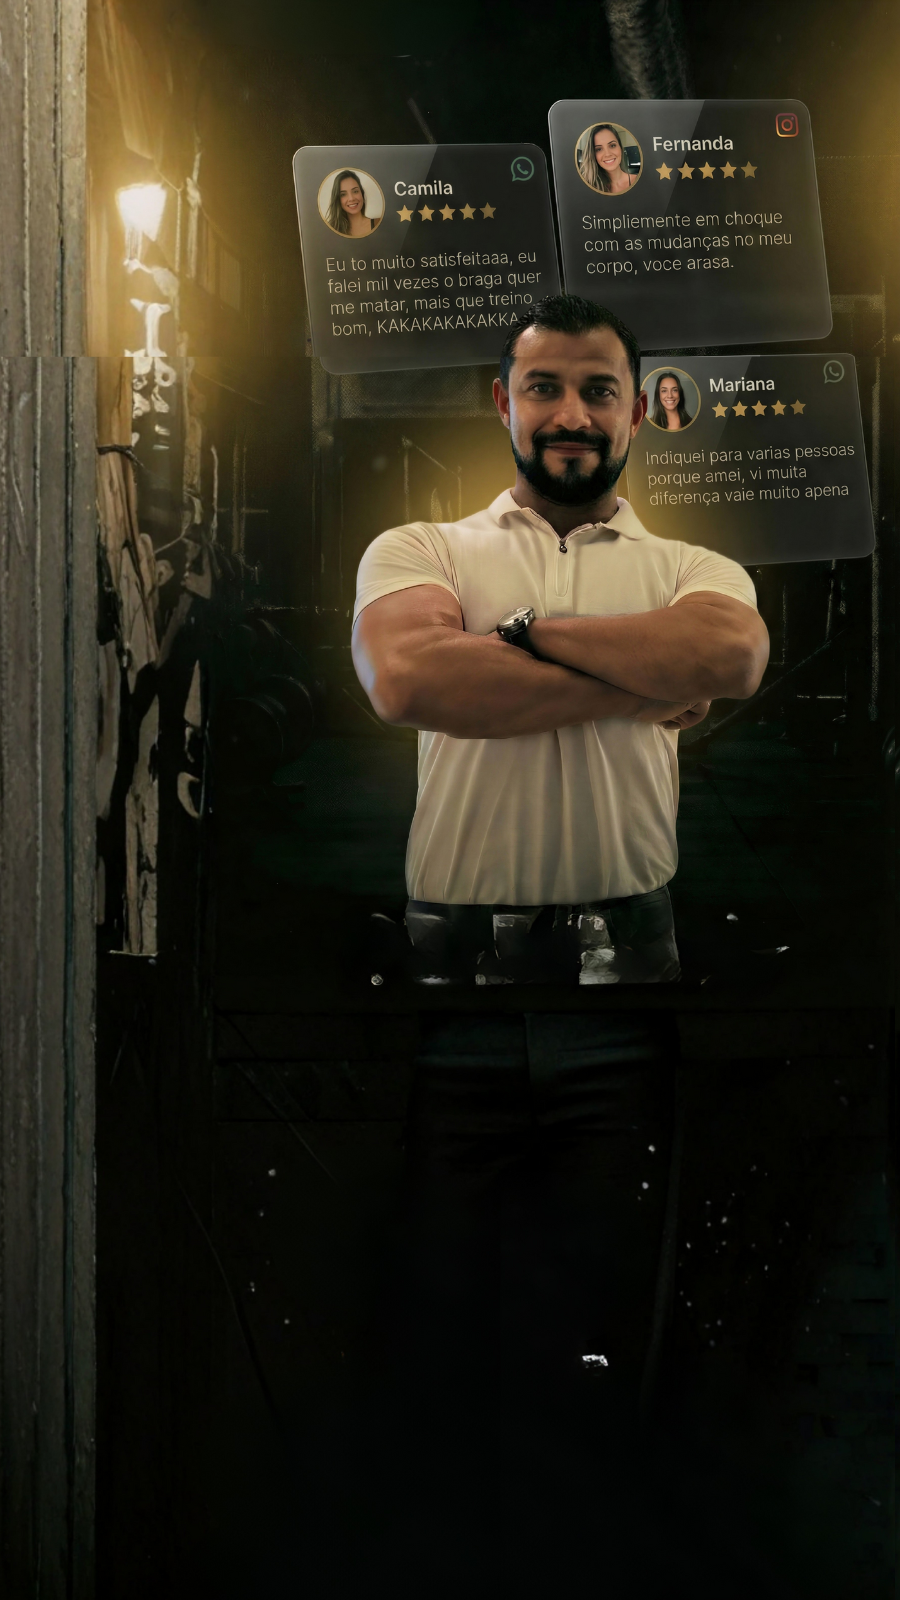
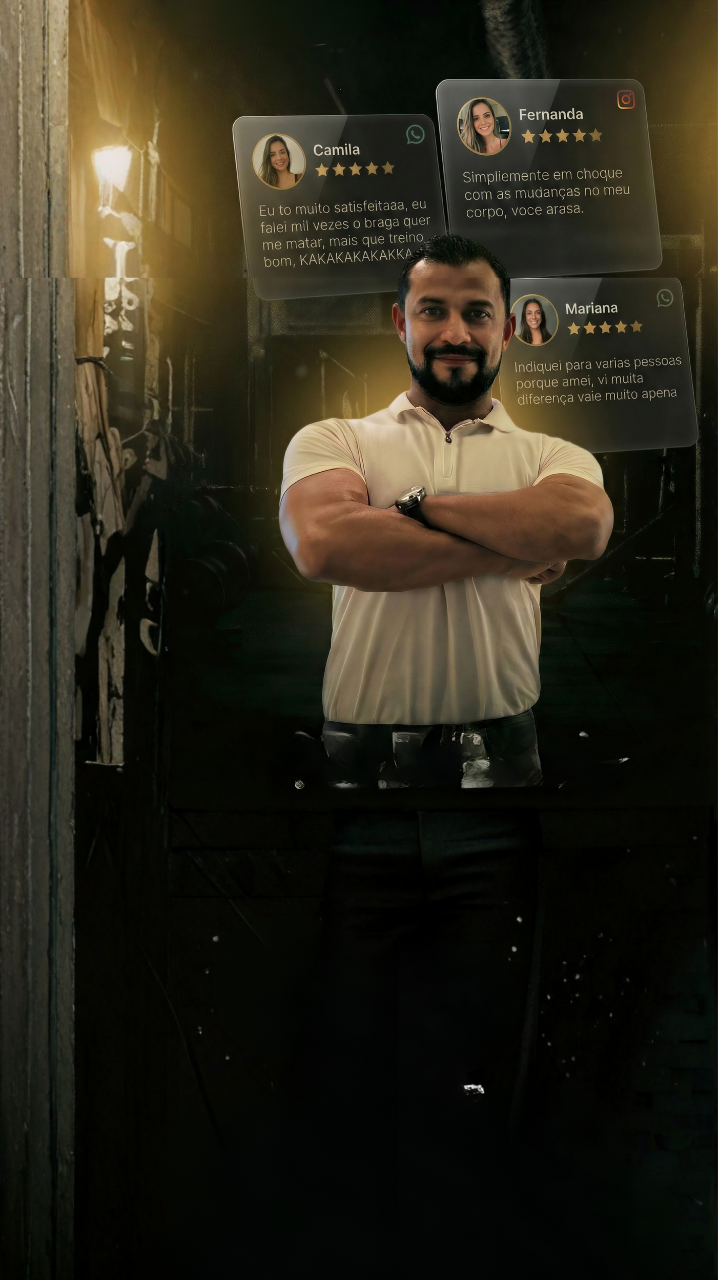
kjhkjh

diff --git a/components/Hero.tsx b/components/Hero.tsx
@@ -35,7 +35,7 @@ const Hero: React.FC = () => {
         .animate-slider { animation: sliderLoop 4s infinite ease-in-out alternate; }
       `}</style>
 
-      {/* Background Image with Controlled Fade */}
+{/* Background Image with Controlled Fade */}
       <div className="absolute inset-0 z-0">
         {/* Mobile Background */}
         <img 
@@ -50,14 +50,22 @@ const Hero: React.FC = () => {
           className="hidden md:block w-full h-full object-cover object-top"
         />
         
-        {/* 1. Camada Geral levemente escura */}
-        <div className="absolute inset-0 bg-black/30"></div>
+        {/* 1. Camada Geral: Reduzi de 30% para 10% (quase imperceptível, só para unir) */}
+        <div className="absolute inset-0 bg-black/10"></div>
 
-        {/* 2. Gradiente Lateral (Leitura do Texto) */}
-        <div className="absolute inset-0 bg-gradient-to-r from-black from-0% via-black/90 via-35% to-transparent to-60%"></div>
+        {/* 2. Gradiente Lateral SUAVIZADO */}
+        <div className="absolute inset-0 bg-gradient-to-r 
+          from-black/70 via-black/40 to-transparent 
+          md:from-black/80 md:via-black/50 md:to-transparent">
+          {/* EXPLICAÇÃO DA MUDANÇA:
+             - Antes: from-black (100% sólido) -> Criava a parede preta.
+             - Agora: from-black/70 (70% opacidade) -> Deixa ver a foto atrás do texto.
+             - Via: via-black/40 -> Suaviza a transição do meio.
+          */}
+        </div>
 
-        {/* 3. Gradiente Inferior (O Chão Preto) */}
-        <div className="absolute bottom-0 left-0 w-full h-40 bg-gradient-to-t from-richblack via-richblack/60 to-transparent"></div>
+        {/* 3. Gradiente Inferior (Mantive, mas ajustei levemente para não brigar) */}
+        <div className="absolute bottom-0 left-0 w-full h-32 bg-gradient-to-t from-richblack via-richblack/60 to-transparent"></div>
       </div>
 
       <div className="container mx-auto px-6 relative z-20">
